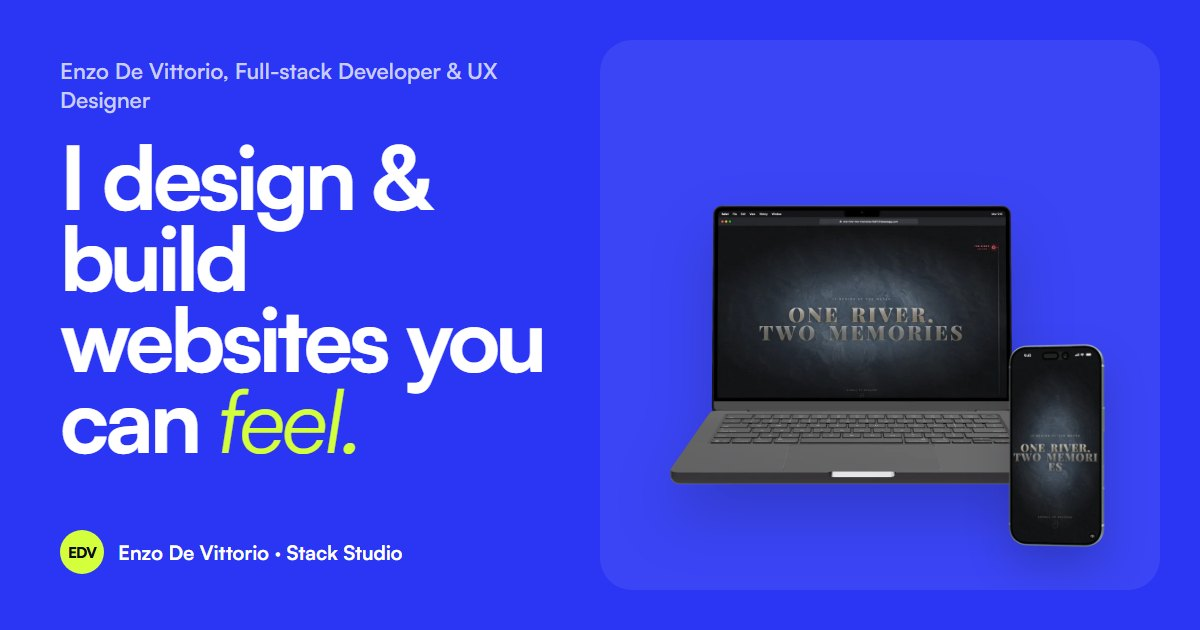
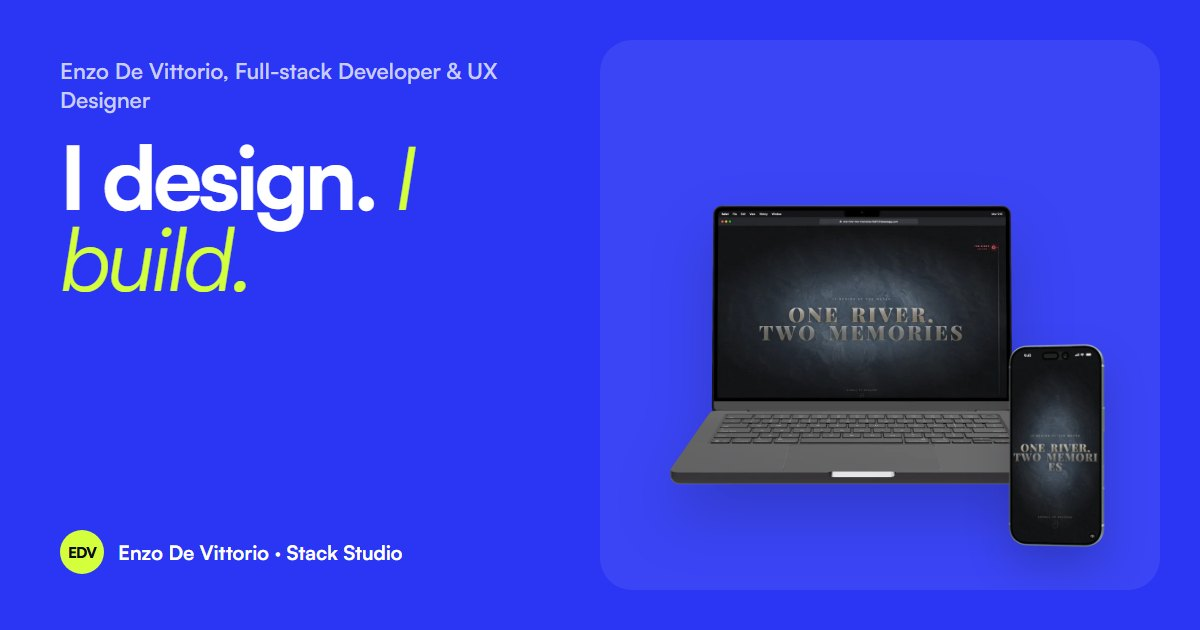
Clarify homepage headline and Forge Your Future credits

Changed region(s): [[0.0308, 0.3619, 0.4625, 0.7238], [0.2775, 0.2111, 0.37, 0.3619]]

diff --git a/app/content/projects.ts b/app/content/projects.ts
@@ -402,11 +402,15 @@ export const projects: Project[] = [
     // Open Window's Digital Open Day campaign. A planet-orbit home, four degree worlds (Shape,
     // Capture, Imagine, Build) with their studios, people and student work, a mini game, an
     // eight-question quiz that matches you to a school and degree, and an Exam Stress Buster
-    // campaign page. Built Oct–Nov 2026. Role still to confirm.
+    // campaign page. Built Oct–Nov 2026.
     tagline: "Four creative worlds, a mini game and a quiz that match students to a degree.",
     year: 2026,
     disciplines: ["Campaign", "Interactive"],
-    role: todo("your role on Forge Your Future"),
+    role: "Frontend developer",
+    team: [
+      { name: "Enzo De Vittorio", role: "Frontend development" },
+      { name: "Armand Naudé", role: "Mini game development" },
+    ],
     // Open Window, Enzo's own university, came to him as the client for this one.
     client: "Open Window Institute",
     context: "Client work",
@@ -464,7 +468,7 @@ export const projects: Project[] = [
         },
         {
           heading: "A path to the right degree",
-          body: "A planet-orbit home you can hover, click or tap, a mini game in every world and an eight-question quiz that matches each visitor to an Open Window school and degree.",
+          body: "I developed the site's frontend, including the planet-orbit home and degree quiz. Armand developed the mini games in the four worlds.",
         },
         {
           heading: "Shipped onto the school's hosting",

diff --git a/app/routes/home.tsx b/app/routes/home.tsx
@@ -123,8 +123,7 @@ function Hero({ portrait }: { portrait: Picture | undefined }) {
               id="hero-heading"
               className="mt-7 max-w-[11ch] display text-[clamp(3.5rem,1rem+10vw,11.5rem)] md:mt-9"
             >
-              {/* Extra room below: at this size and line-height the descender of "y" hangs about
-                0.19em under the line box, past line-mask's default padding. */}
+              {/* Extra room below keeps italic descenders inside the line mask. */}
               <span className="line-mask" style={{ paddingBottom: "0.24em", marginBottom: "-0.24em" }}>
                 {/* The LCP line rises from partly visible, so it counts as painted on frame one. */}
                 <span className="block motion-safe:animate-rise-short" style={delay(80)}>

diff --git a/app/content/pages.ts b/app/content/pages.ts
@@ -17,10 +17,10 @@ export const home = {
   hero: {
     eyebrow: "Full-stack Developer · UX Designer",
     // The headline, split so the last word takes the italic accent.
-    lead: "Software you can",
-    accent: "feel.",
+    lead: "I design.",
+    accent: "I build.",
     intro:
-      "Enzo De Vittorio. Researched like a UX designer, engineered like a developer, from the interface to the database.",
+      "I'm Enzo De Vittorio. I design and build websites and apps, from what people see to the systems behind them.",
     primary: "See the work",
     secondary: "About me",
     /** Cut-out portrait standing behind the headline (decorative: the name is in the copy). */

diff --git a/CONTENT_TODO.md b/CONTENT_TODO.md
@@ -10,7 +10,6 @@ Every item shows as a visible "TODO(enzo)" marker on the site (or hides its link
 ### projects.ts
 
 - [ ] Stack Studio live URL — `projects.ts` · stack-studio → links
-- [ ] your role on Forge Your Future — `projects.ts` · forge-your-future → role
 - [ ] your role on Salon Friend — `projects.ts` · salon-friend → role
 - [ ] your role on the Sportify team — `projects.ts` · sportify → role
 - [ ] role — `projects.ts` · sportify → @JoshuaDeKlerk
